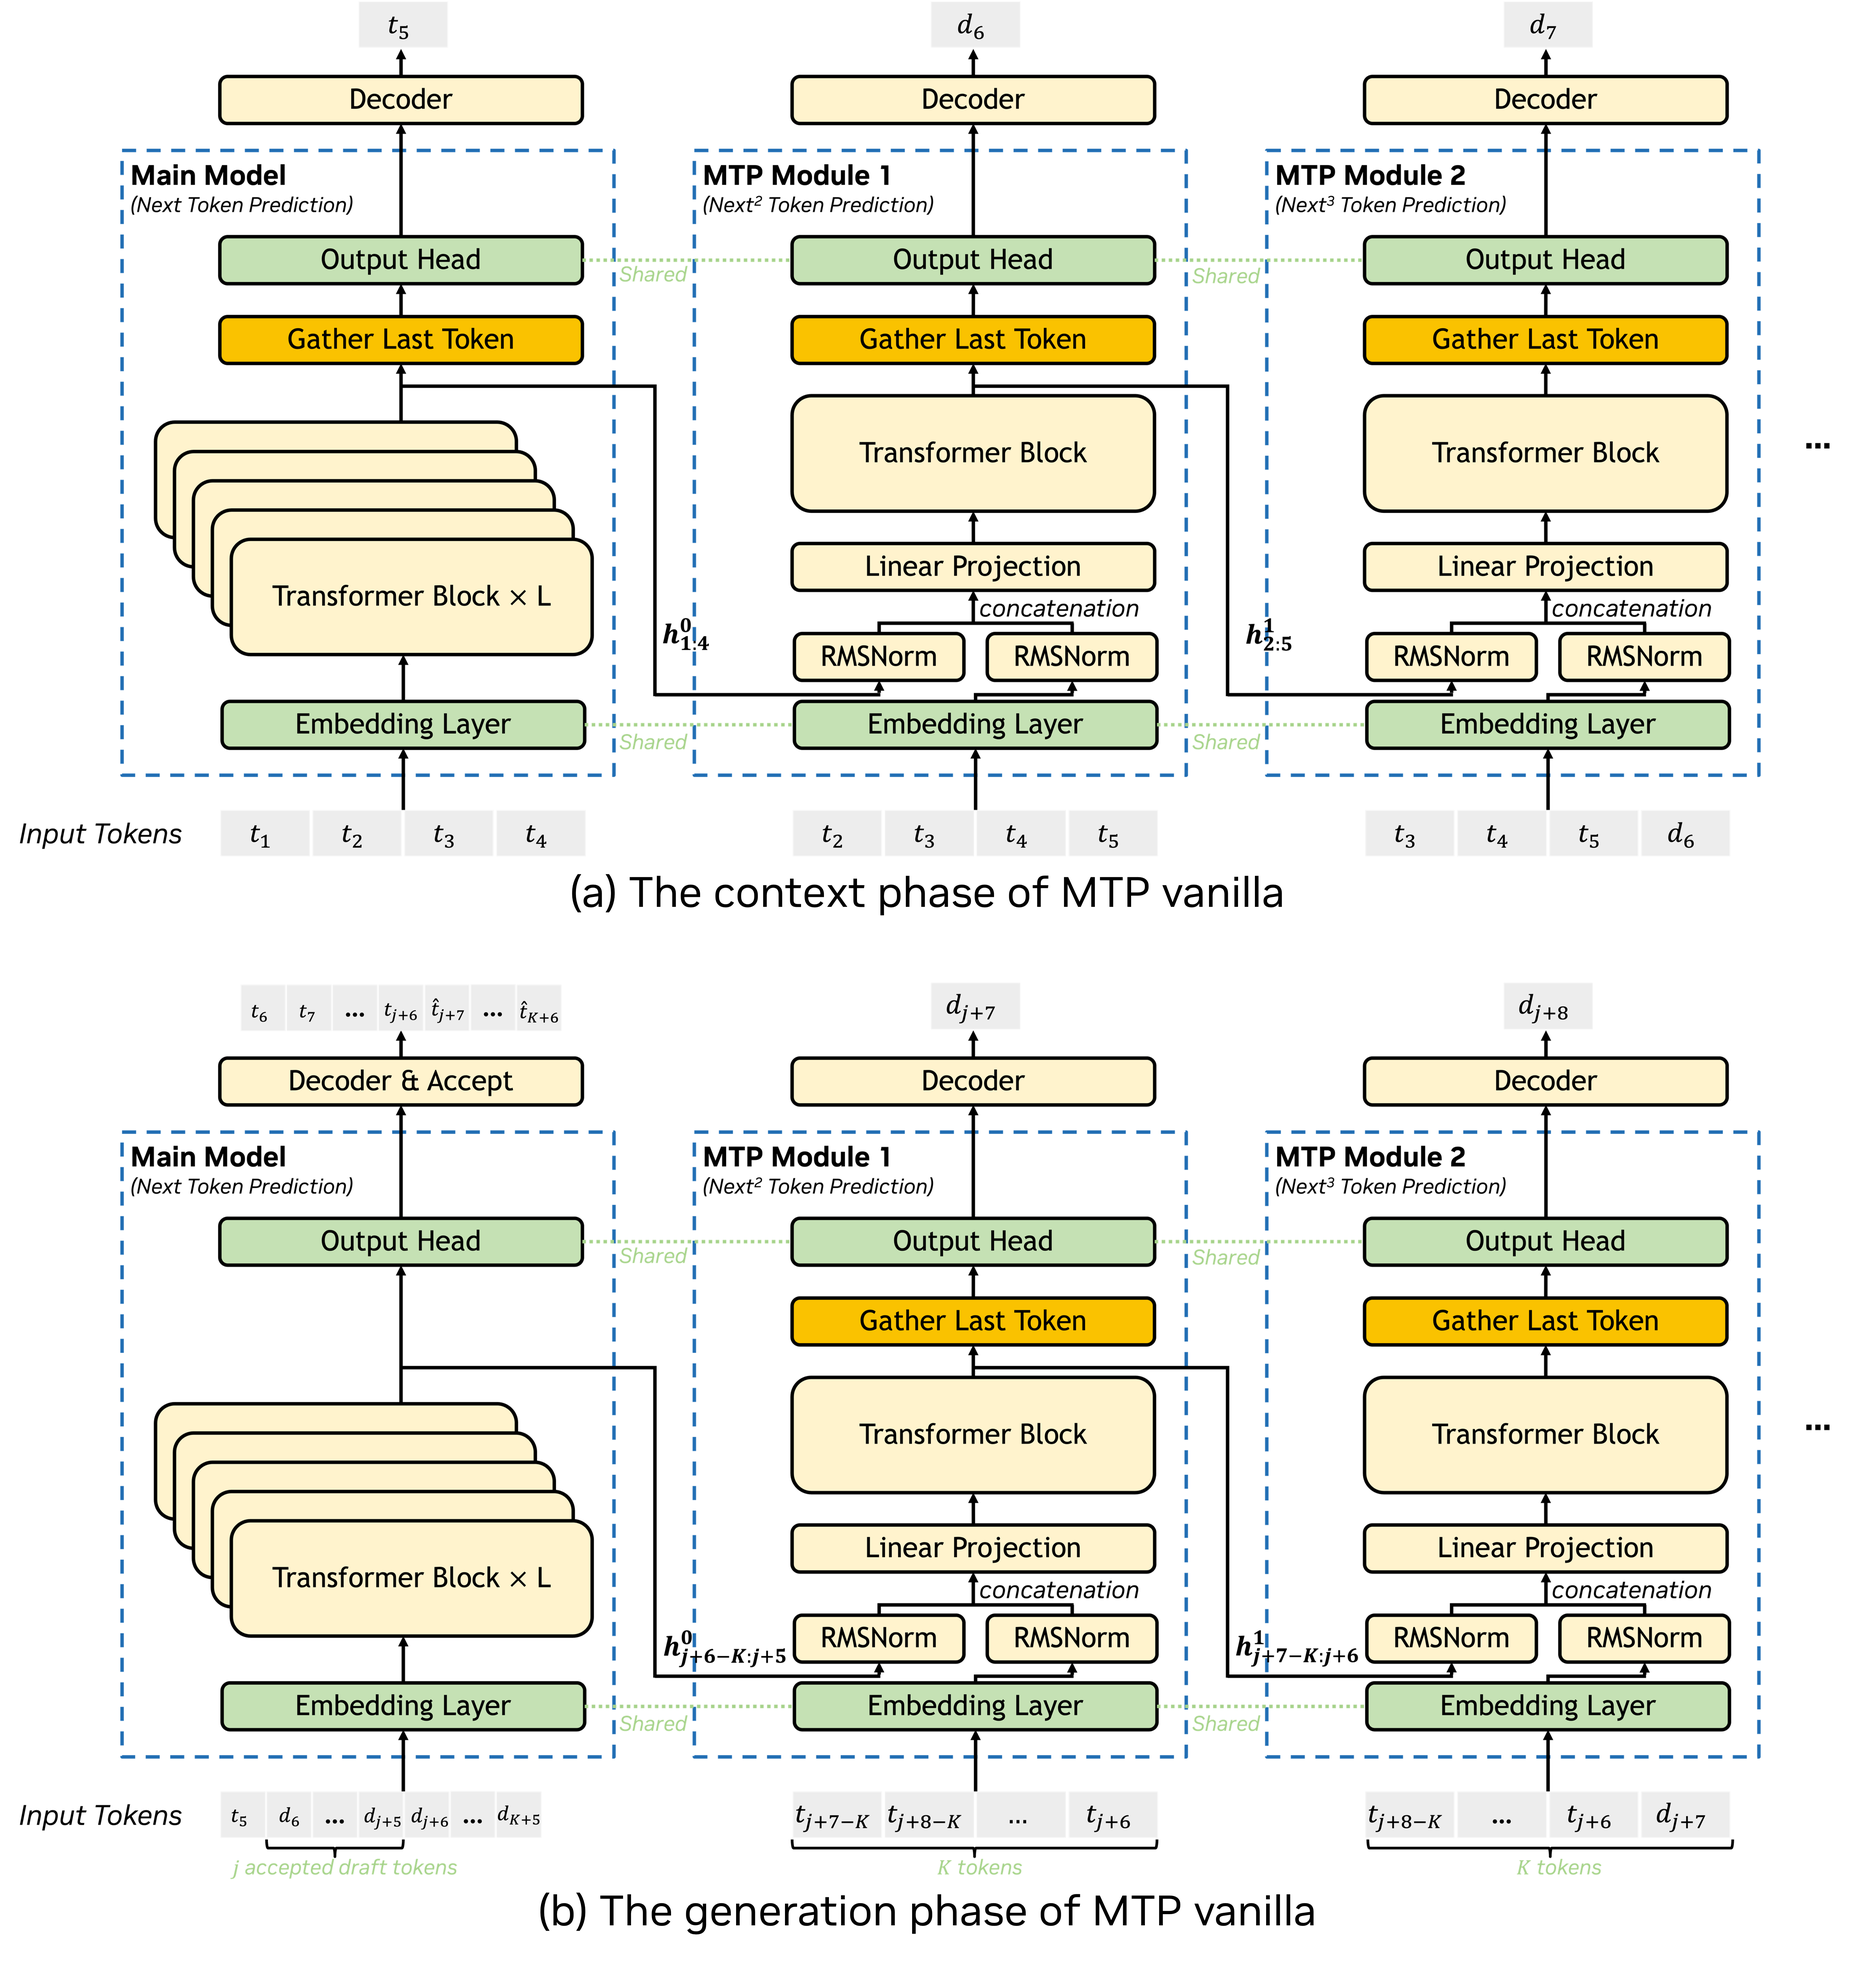
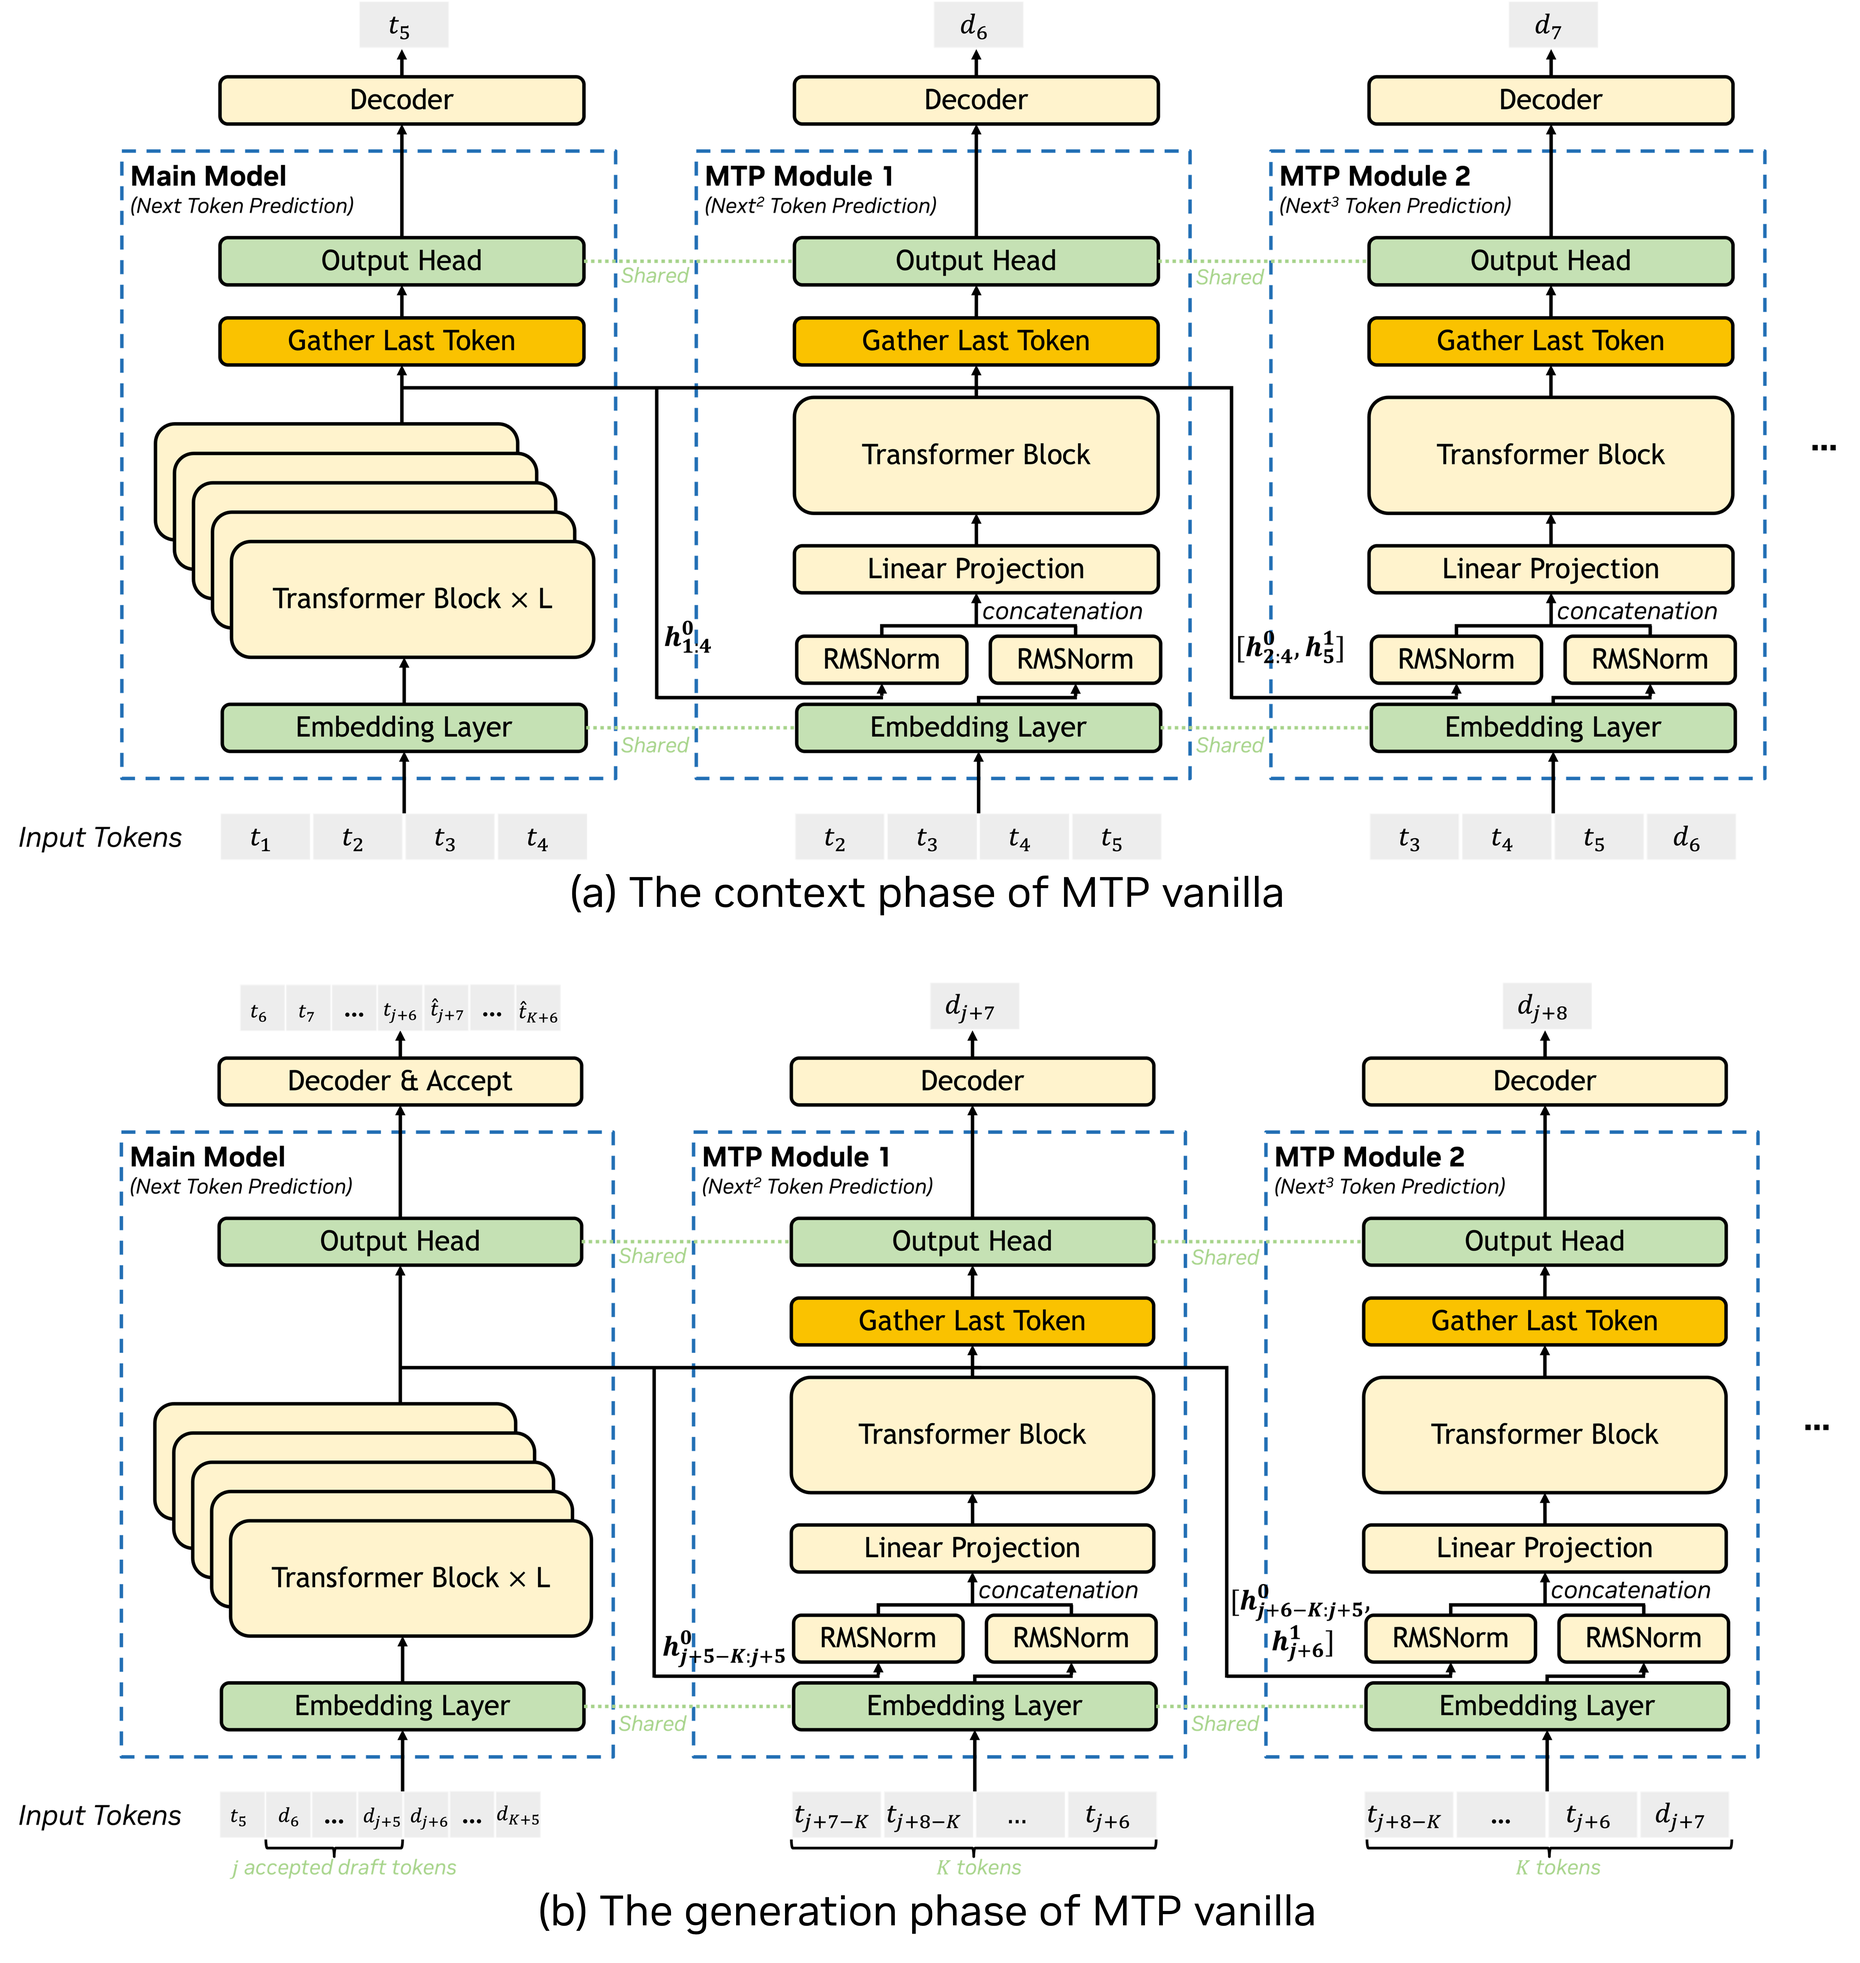
[doc] update mtp documents (#5387)

diff --git a/docs/source/blogs/tech_blog/blog2_DeepSeek_R1_MTP_Implementation_and_Optimization.md b/docs/source/blogs/tech_blog/blog2_DeepSeek_R1_MTP_Implementation_and_Optimization.md
@@ -55,7 +55,7 @@ For the draft stage in MTP, there are two different MTP methods, MTP vanilla and
 
 MTP Vanilla method is more similar to the MTP training, and it sequentially uses different MTP modules to predict multiple draft tokens. This method can support model checkpoints with weights of multiple different MTP modules. And each MTP module will have its own KV cache.
 
-Figure 2 illustrates the MTP vanilla inference. In the context phase, assuming there are a total of four input tokens, we will get the output token $t_5$ and the hidden states after the main model forward. The output token will be appended to the input tokens, then we shift out the first token to get tokens from $t_2$ to $t_5$ as the input tokens of the first MTP module. The hidden states from the main model will be directly used as the input of the first MTP module to predict the first draft token. For the next several MTP modules, we will use the same method to prepare the inputs to predict the sequential draft tokens.
+Figure 2 illustrates the MTP vanilla inference. In the context phase, assuming there are a total of four input tokens, we will get the output token $t_5$ and the hidden states after the main model forward. The output token will be appended to the input tokens, then we shift out the first token to get tokens from $t_2$ to $t_5$ as the input tokens of the first MTP module. The hidden states from the main model will be directly used as the input of the first MTP module to predict the first draft token. For the next few MTP modules, we'll append the newly generated draft token and the hidden states corresponding to the last input token to the input tokens and hidden states. Then we'll shift out the first token to prepare the inputs for the next MTP module. In this way, we can retain as much information as possible from the main model, which helps the draft layer make more accurate predictions.
 
 In the generation phase, there will be a little difference. The predicted token $t_5$ and the draft tokens will be used as inputs for the main model. After the main model forward, we will do the verification to get the accepted tokens. In this example, assuming $j$ draft tokens $d_6$~$d_{j+5}$ are accepted. Then prepare the MTP module inputs.  Different from the context phase, we will prepare input IDs and hidden states of a total of $K$ tokens before the last accepted token. In this example, the last accepted token is $t_{j+6}$. Then we can get the first draft token after the first MTP module forward. For the sequential MTP modules, we can prepare their inputs in a similar way to the MTP modules in the context phase, so all of those MTP modules have the same input sequence length. After predicting all of the draft tokens, we need to evict the keys/values of those rejected draft tokens from the main model's KV cache to ensure the subsequent calculation is correct.
 
@@ -72,7 +72,7 @@ MTP Eagle can be viewed as a variant of [Eagle](https://arxiv.org/pdf/2401.15077
 
 Figure 3 gives an MTP Eagle example. In the context phase, the inputs of the first MTP module forward are the same as the MTP Vanilla. However, for the sequential MTP module forward, the first difference is that MTP Eagle uses the same MTP module to predict draft tokens and reuses the same KV cache. Another difference is that we only need to input the token ID and the hidden state of one token. The token is the last predicted draft token, while the hidden state is the corresponding hidden state in the last MTP module forward. In this way, we can predict total K draft tokens by using only one MTP module.
 
-In the generation phase, the verification stage is the same as MTP Vanilla. After getting the accepted tokens, we will use the last accepted tokens and the corresponding hidden state as the inputs of the first MTP module forward. Compared with MTP Vanilla, it will be much easier to implement. And the sequential MTP module forwards use the same method as the context phase to prepare inputs. After predicting all of the draft tokens, we need to evict the keys/values of those rejected draft tokens from the main model's KV cache.
+In the generation phase, the verification stage is the same as MTP Vanilla. Once we get the accepted tokens, we use all of them along with their corresponding hidden states as inputs for the first MTP module forward. Unlike MTP Vanilla, which needs to store past tokens and hidden states, this approach is much easier to implement. Subsequent MTP module forwards follow the same input preparation method as the context phase. After predicting all draft tokens, we need to evict the key/value pairs of any rejected draft tokens from the main model’s KV cache.
 
 ## MTP implementation in TensorRT-LLM
 ### Basic Implementation
@@ -240,14 +240,6 @@ TensorRT-LLM PyTorch backend can only support chain-based speculative decoding n
 ### Eagle3 support
 
 Another important method is Eagle3. From the [Eagle3 paper](https://arxiv.org/pdf/2503.01840), the promising results show that it can help greatly increase the acceptance rate by leveraging different levels’ hidden states to predict draft tokens. Since TensorRT-LLM already has [Eagle-3 support](https://github.com/NVIDIA/TensorRT-LLM/pull/3035) now, in the future, we also want to train an Eagle3 head to support DeepSeek-V3/R1+Eagle3 to achieve better speedup.
-
-### Fix known issues
-
-There are still some known issues, and we will fix them soon:
-- The MTP vanilla path has a known accuracy issue. We will fix it and refactor the MTP vanilla implementation.
-- The MTP Eagle is non-deterministic now.
-- An accuracy issue when enabling MTP and attention DP together.
-
 
 ## Acknowledgment
 

diff --git a/examples/models/core/deepseek_v3/README.md b/examples/models/core/deepseek_v3/README.md
@@ -793,7 +793,3 @@ KV cache reuse is supported for MLA on SM90 and SM100. It is enabled by default.
 - **GPU Memory:** Adjust `--max_batch_size` and `--max_num_tokens` if you encounter out-of-memory errors.
 - **Logs:** Check `/workspace/trt_bench.log` for detailed performance information and troubleshooting messages.
 - **Configuration Files:** Verify that the configuration files are correctly formatted to avoid runtime issues.
-
-## Known Issues
-
-- MTP + attention DP + CUDA graph + overlap scheduler might have accuracy issues. We'll fix it later.
